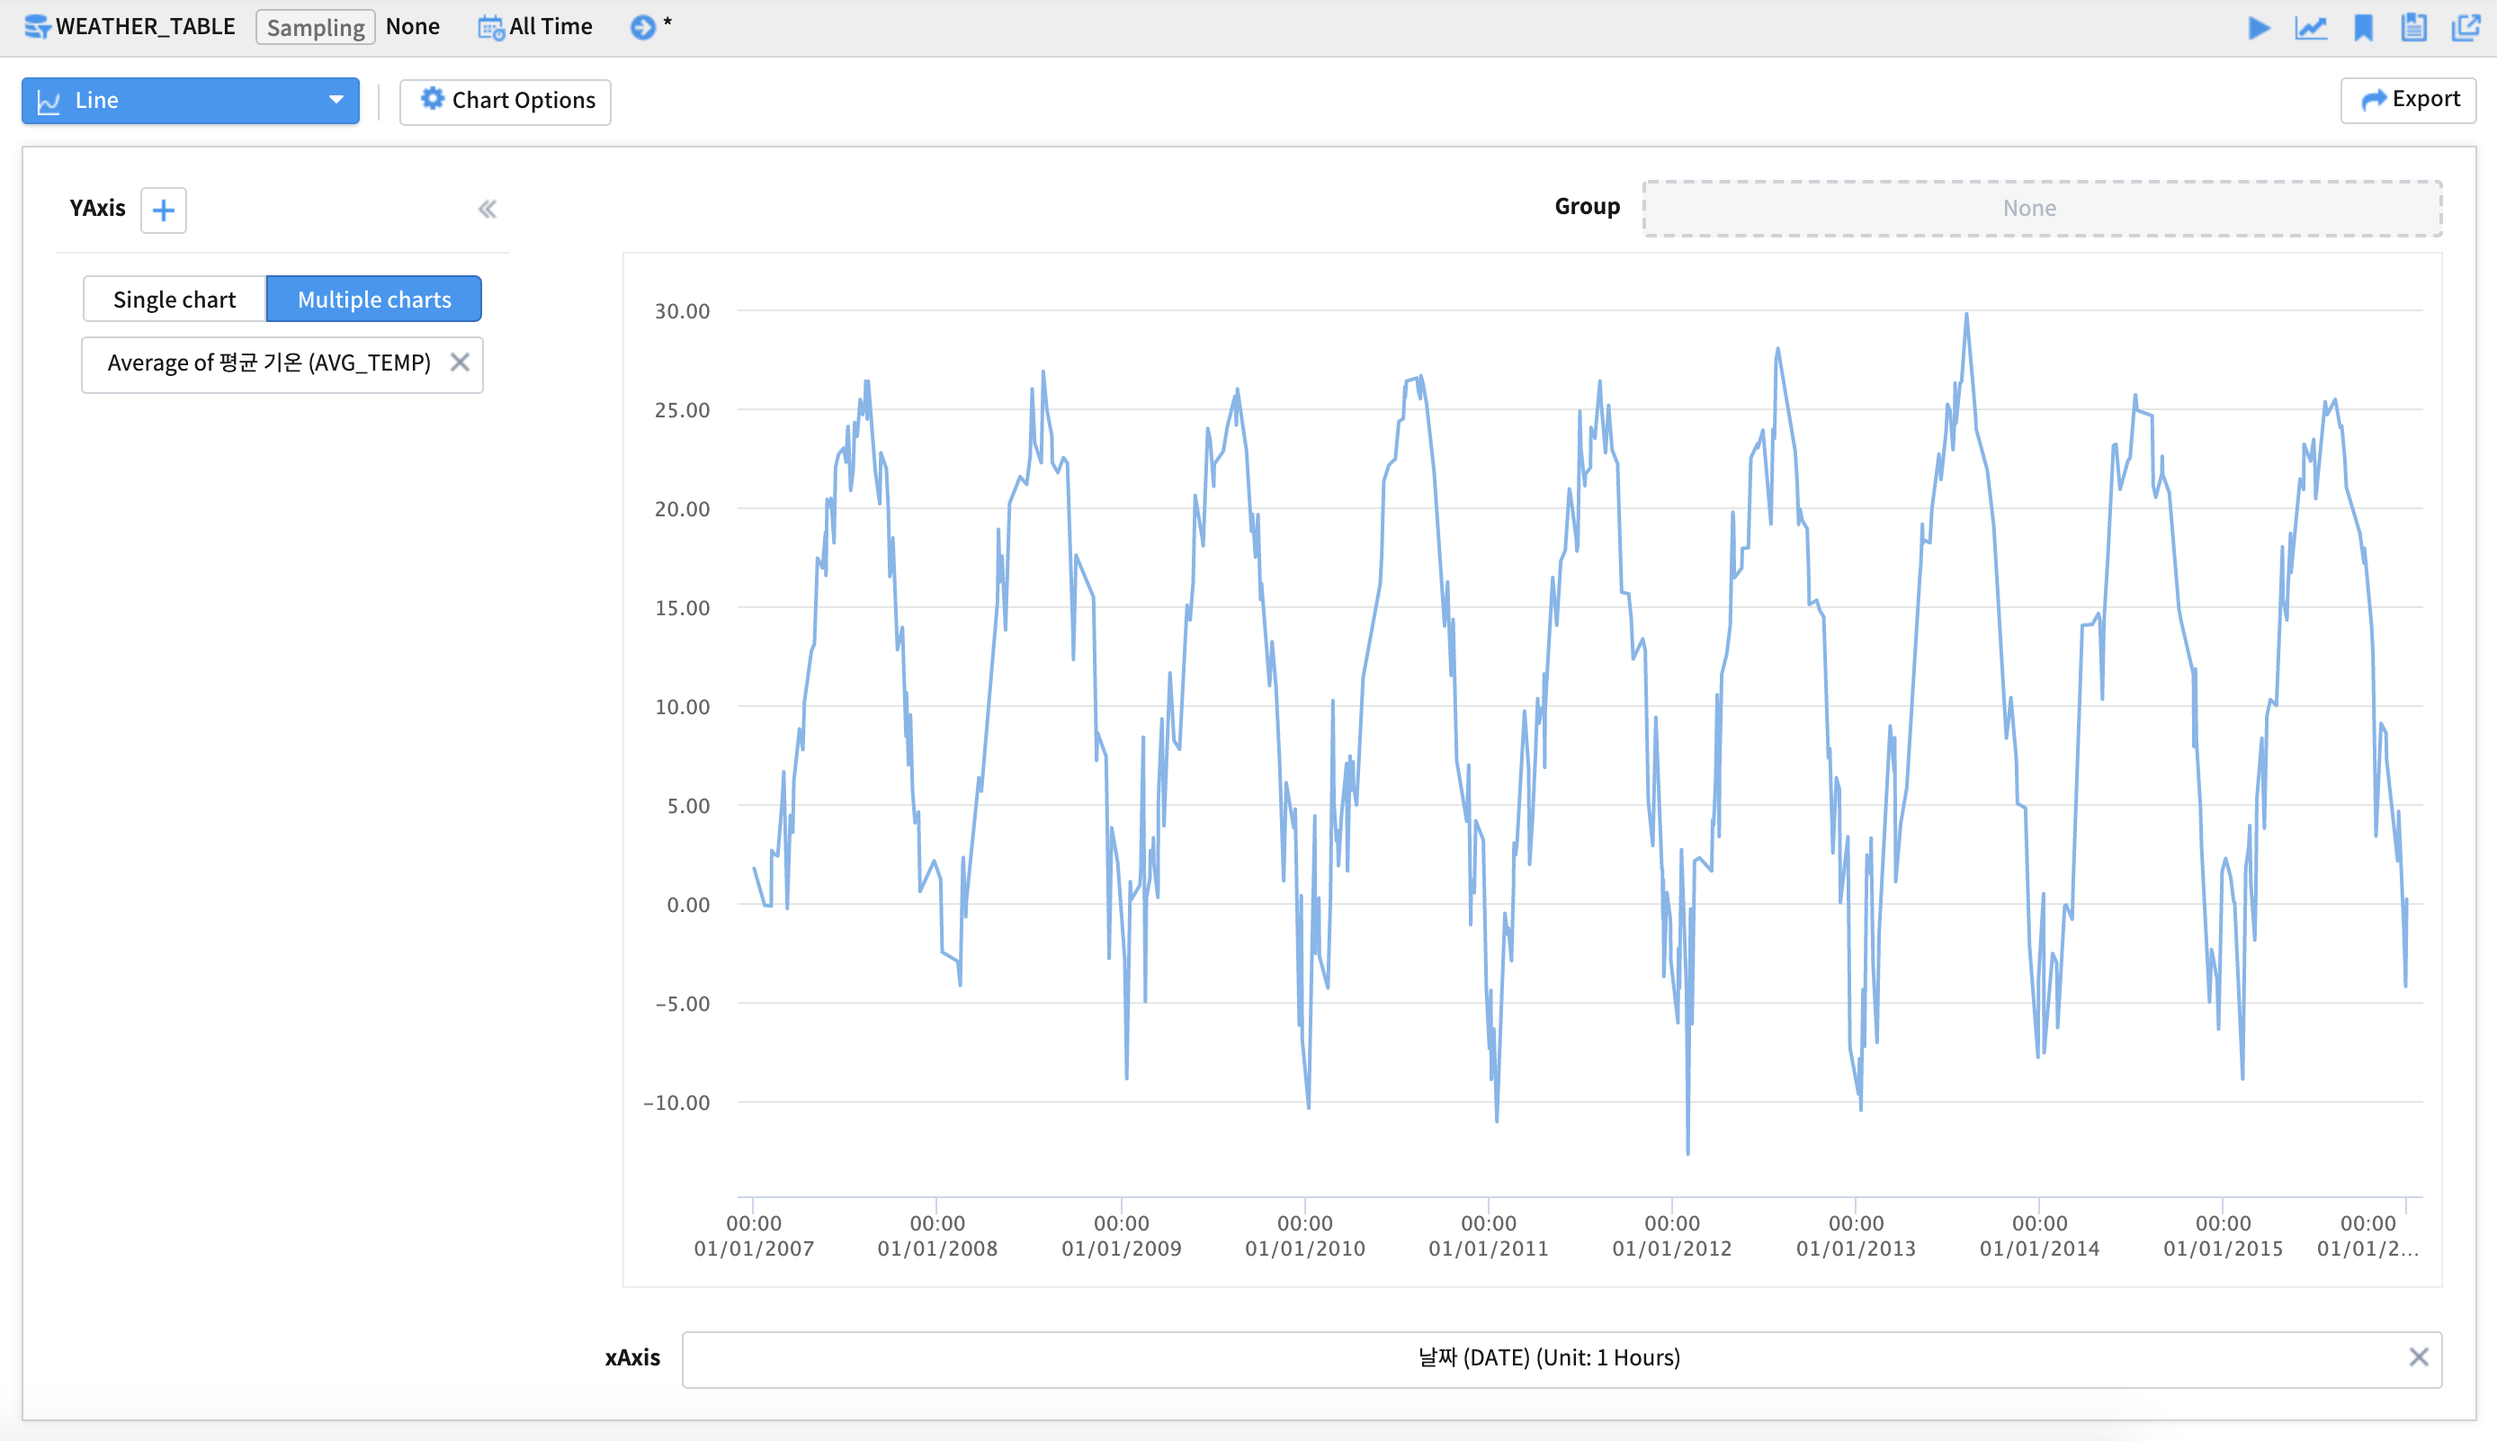
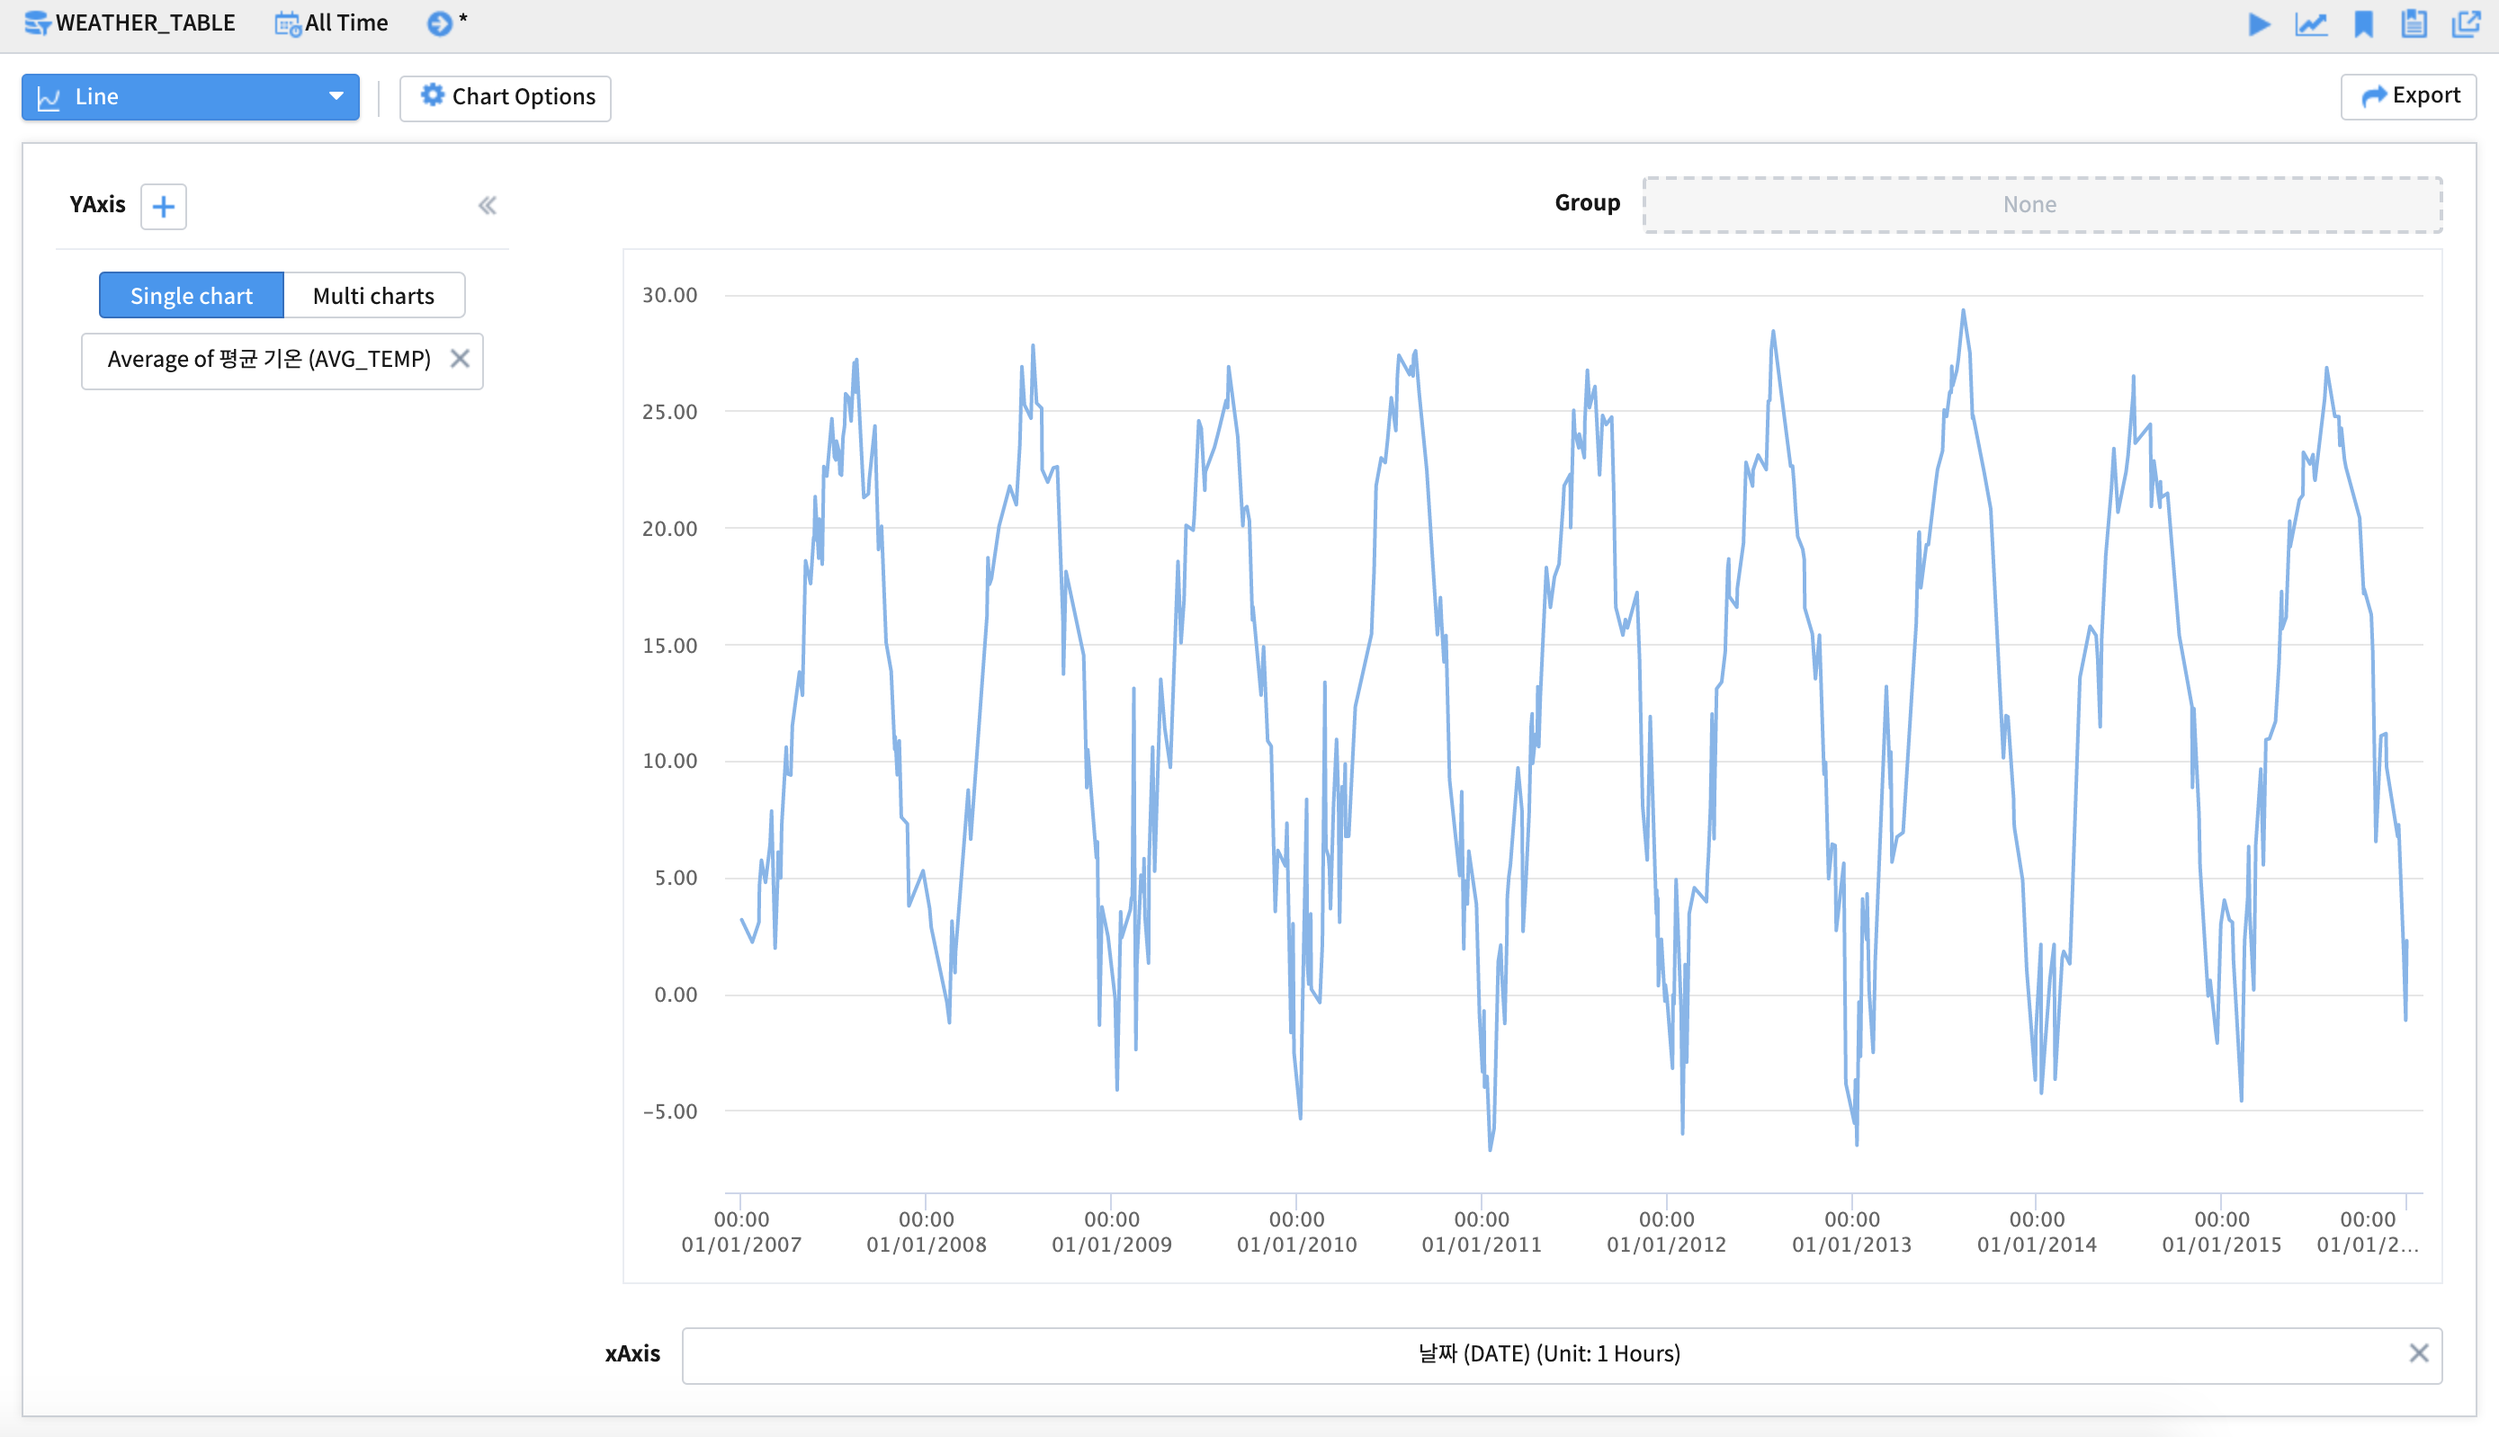
시각화 업데이트

diff --git a/visualization/02_show_charts.rst b/visualization/02_show_charts.rst
@@ -4,28 +4,28 @@
 
 | 시계열, 분포, 관계형, 이상치, 지도형과 같은 시각화 분석 유형을 선택할 수 있습니다. 
 
-.. image:: ./images/kor/02_show_charts/show_charts_00.png
+.. image:: images/kor/02_show_charts/show_charts_00.png
 
 |
 |
 
-단일 차트 - 시계열 그래프
+꺽은선형 - 단일 차트 - 시계열 그래프
 -----------------------------------------------------------------------------------------------------------------------------------
-시간의 흐름(x축)에 따라 y축의 변화를 보고자 할 때 사용합니다. 
+시간의 흐름(x축)에 따라 y축의 시계열 변화를 보고자 할 때 사용합니다. 
 
-.. image:: ./images/kor/02_show_charts/show_charts_01.png
+.. image:: images/kor/02_show_charts/show_charts_01.png
 
 **x축 옵션**
 
-.. image:: ./images/kor/02_show_charts/show_charts_02.png
+.. image:: images/kor/02_show_charts/show_charts_02.png
 
 **y축 옵션**
 
-.. image:: ./images/kor/02_show_charts/show_charts_03.png
+.. image:: images/kor/02_show_charts/show_charts_03.png
 
 **차트 옵션**
 
-.. image:: ./images/kor/02_show_charts/show_charts_04.png
+.. image:: images/kor/02_show_charts/show_charts_04.png
 
 | x축과 y축에 설정한 변수를 각각 클릭하면 축 옵션을 이용가능합니다. 집계 시간단위(1시간, 1일, 1개월, 1년 등)나 집계 방식(합계, 평균, 최대, 최소 등)을 변경할 수 있습니다. 차트 옵션을 이용하면 결측값 표시여부, 축 제목, 범례 위치, 범례 표시 여부 등 다양한 시각화 옵션 조정이 가능합니다. 
 | 축 옵션 및 차트 옵션에 관한 자세한 사항은 매뉴얼을 참조하시기 바랍니다. 
@@ -33,44 +33,44 @@
 |
 |
 
-단일 차트 - 그룹별 시계열 그래프
+꺽은선형 - 단일 차트 - 그룹별 시계열 그래프
 -----------------------------------------------------------------------------------------------------------------------------------
 | 축의 단위가 같은 시계열을 그룹별로 구분하여 그래프를 그릴 수 있습니다. 일부 그룹의 필터링을 하기위해서 차트 왼쪽에 있는 필터를 사용할 수 있습니다. 
 
-.. image:: ./images/kor/02_show_charts/show_charts_05.png
+.. image:: images/kor/02_show_charts/show_charts_05.png
 
 **필터링**
 
-.. image:: ./images/kor/02_show_charts/show_charts_06.png
+.. image:: images/kor/02_show_charts/show_charts_06.png
 
 필터에 관한 자세한 사항은 매뉴얼의 핉터링 부분을 참조하시길 바랍니다. 
 
 |
 |
 
-단일 차트 - 중첩 시계열 그래프(단일 축)
+꺽은선형 - 단일 차트 - 중첩 시계열 그래프
 -----------------------------------------------------------------------------------------------------------------------------------
 
-| 축의 단위(속력, 전력량, 온도 등)가 같은 그래프들을 하나의 축을 기준으로 그릴 수 있습니다. 주로 유사한 단위나 scale이 비슷한의 컬럼을 비교할 때 사용합니다.  
-| 중첩 시계열 그래프를 그리기 위해 y축 컬럼을 추가하고자 할때는 + 버튼을 눌러 컬럼을 추가합니다. 
+| 축의 단위(속력, 전력량, 온도 등)가 같은 그래프들을 하나의 축을 기준으로 그릴 수 있습니다. 주로 유사한 단위나 scale이 비슷한의 변수를 비교할 때 사용합니다.  
+| 중첩 시계열 그래프를 그리기 위해 y축 변수를 추가하고자 할때는 + 버튼을 눌러 변수를 추가합니다. 
 | 이때 차트의 범례 순서는 y축의 순서를 조정하여 변경할 수 있습니다.  
 
-.. image:: ./images/kor/02_show_charts/show_charts_07.png
-.. image:: ./images/kor/02_show_charts/show_charts_08.png
+.. image:: images/kor/02_show_charts/show_charts_07.png
+.. image:: images/kor/02_show_charts/show_charts_08.png
 
-| 주의) 비교하고자 하는 컬럼들의 단위가 다르거나 특정 컬럼의 scale이 매우 큰 경우(예:전력량 0~10000과 온도 -10~30)에는 단일 차트를 시용하기보다는 다중 차트를 이용하는것을 권장합니다. 
+| 주의) 비교하고자 하는 변수들의 단위가 다르거나 특정 변수의 scale이 매우 큰 경우(예:전력량 0~10000과 온도 -10~30)에는 단일 차트를 시용하기보다는 다중 차트를 이용하는것을 권장합니다. 
 
 
 |
 |
 
-다중 차트 - 다중 시계열 그래프(다중 축)
+꺽은선형 - 다중 차트 - 다중 시계열 그래프
 -----------------------------------------------------------------------------------------------------------------------------------
 
 | 축의 단위(속력, 전력량, 온도 등)가 다르거나, 축이 동일해도 scale이 다른 그래프들을 다중 차트로 그릴 수 있습니다.
-| 다중 시계열 그래프를 그리기 위해 y축 컬럼을 추가하고자 할때는 + 버튼을 눌러 컬럼을 추가합니다. 
+| 다중 시계열 그래프를 그리기 위해 y축 변수를 추가하고자 할때는 + 버튼을 눌러 컬럼을 추가합니다. 
 
-.. image:: ./images/kor/02_show_charts/show_charts_09.png
+.. image:: images/kor/02_show_charts/show_charts_09.png
 
 |
 |
@@ -79,7 +79,7 @@
 -----------------------------------------------------------------------------------------------------------------------------------
 | x축, y축으로 이루어진 직교좌표 위에 값을 점으로 나타낸 그래프입니다. 두 개 변수 간의 관계를 나타내는 방법입니다. 두 개 변수 간의 관계를 통해 선형 이나 비선형의 형태와 같은 모델을 확인해봄으로써 그 방향성과 강도를 조사할 수 있습니다.
 
-.. image:: ./images/kor/02_show_charts/show_charts_10.png
+.. image:: images/kor/02_show_charts/show_charts_10.png
 
 |
 |
@@ -89,21 +89,26 @@
 | 시간에 따른 데이터를 x축, y축으로된 2차원 공간에서 버블의 크기와 다양한 색상, 데이터의 변화를 보여주는 차트입니다. 
 | 재생, 일시정지, 다시 재생, 중단의 옵션을 통해 데이터의 움직임을 조정할 수 있습니다. 
 
-.. image:: ./images/kor/02_show_charts/show_charts_11.png
+.. image:: images/kor/02_show_charts/show_charts_11.png
 
 |
 |
 
 히스토그램 - 단일 히스토그램 
 -----------------------------------------------------------------------------------------------------------------------------------
-| 연속형 변수를 일정 구간을 나누어 그 빈도를 그래프로 나타낸 것입니다. 동일한 히스토그램 자료를 x축의 간격(bin size) 조정을 통해 변경 할 수 있습니다. 
+| 연속형 변수를 일정 구간을 나누어 그 빈도를 그래프로 나타낸 것입니다. x축의 구간 간격(bin size) 조정을 통해 집계 빈도를 조정 할 수 있습니다. 
 
-.. image:: ./images/kor/02_show_charts/show_charts_12.png
-.. image:: ./images/kor/02_show_charts/show_charts_13.png
+**기본형**
+
+.. image:: images/kor/02_show_charts/show_charts_12.png
+
+**기본형 - 구간 간격 조정**
+
+.. image:: images/kor/02_show_charts/show_charts_13.png
 
 **x축 옵션**
 
-.. image:: ./images/kor/02_show_charts/show_charts_14.png
+.. image:: images/kor/02_show_charts/show_charts_14.png
 
 | x축에 설정한 변수를 클릭하면 축 옵션을 이용가능합니다. 특히 범위 만들기를 '예'로 변경하여 구간 간격(bin size; range size)를 조정 할 수 있습니다. 축 옵션에 관한 자세한 사항은 매뉴얼을 참조하시기 바랍니다. 
 |
@@ -113,22 +118,53 @@
 -----------------------------------------------------------------------------------------------------------------------------------
 | 연속형 변수를 일정 구간을 나누어 그 빈도를 그래프로 나타낸 것입니다. 그룹에 변수를 매핑하여 그룹간 분포를 비교할 수 있습니다. 
 
-.. image:: ./images/kor/02_show_charts/show_charts_15.png
+.. image:: images/kor/02_show_charts/show_charts_15.png
 
 |
 |
 
-막대형 그래프 (범주형 변수)
+막대형 그래프 - 기본형
 -----------------------------------------------------------------------------------------------------------------------------------
-| 범주형 변수의 빈도를 막대 그래프로 나타낸 것입니다. 그룹에 변수를 매핑하여 그룹간 분포를 비교할 수 있습니다. 
+| 범주형 변수의 빈도를 막대 그래프로 나타낸 것입니다. 히스토그램보다 심화된 작업을 할때 주로 사용합니다. 
 
-.. image:: ./images/kor/02_show_charts/show_charts_16.png
+.. image:: images/kor/02_show_charts/show_charts_16_0.png
 
 |
 |
 
-누적 막대그래프
+막대형 그래프 - 집계형
 -----------------------------------------------------------------------------------------------------------------------------------
+| 범주형 변수의 빈도를 막대 그래프로 나타낸 것입니다. y축(이벤트 개수)에 원하는 변수를 넣어서 집계(합계, 평균 등)된 막대그래프를 표현할 수 있습니다. 
+
+.. image:: images/kor/02_show_charts/show_charts_16_1.png
+
+| x축과 y축에 설정한 변수를 각각 클릭하면 축 옵션을 이용가능합니다. x축의 순서(오름차순/내림차순)나 y축의 집계 방식(합계, 평균, 최대, 최소 등)을 변경할 수 있습니다. 차트 옵션을 이용하면 결측값 표시여부, 축 제목, 범례 위치, 범례 표시 여부 등 다양한 시각화 옵션 조정이 가능합니다. 
+| 축 옵션 및 차트 옵션에 관한 자세한 사항은 매뉴얼을 참조하시기 바랍니다. 
+
+|
+|
+
+누적 막대형 그래프 - 스택형/풀스택형
+-----------------------------------------------------------------------------------------------------------------------------------
+| 범주형 변수의 그룹별 빈도를 막대 그래프로 나타낸 것입니다. 햔재 x축 변수에서 그룹 변수가 차지하고 있는 빈도를 확인 가능합니다. 
+| 스택형은 데이터의 빈도를 그룹별로 누적 빈도를, 풀스택형은 누적 퍼센트를 집계해 줍니다. 
+
+**스택형**
+
+.. image:: images/kor/02_show_charts/show_charts_17.png
+
+
+
+**풀스택형**
+
+.. image:: images/kor/02_show_charts/show_charts_18.png
+
+**차트 옵션**
+
+.. image:: images/kor/02_show_charts/show_charts_19.png
+
+| 차트 상단의 차트 옵션을 이용하면 스택형/풀스택형의 모드 유형, 데이터 값의 표현 여부 등을 조정 할 수 있습니다. 
+| 축 옵션 및 차트 옵션에 관한 자세한 사항은 매뉴얼을 참조하시기 바랍니다. 
 
 |
 |

diff --git a/visualization/03_save_charts.rst b/visualization/03_save_charts.rst
@@ -2,10 +2,10 @@
 ===================================================================================================================================
 
 | 파일 저장 버튼을 누르면 시각화에서 만든 차트가 이미지 파일(png)로 저장됩니다. 
-| 사용자의 다운로드 폴더에 chart.png, chart-01.png, chart-02.png 이름 순으로 저장됩니다. 
+| 저장된 이미지는 사용자의 다운로드 폴더에 chart.png, chart-01.png, chart-02.png 이름 순으로 저장됩니다. 
 
-.. image:: ./images/03_save_charts/save_chart.png
+.. image:: ./images/kor/03_save_charts/save_chart.png
 
 **저장된 차트 이미지 원본**
 
-.. image:: ./images/03_save_charts/save_image.png
+.. image:: ./images/kor/03_save_charts/save_image.png

diff --git a/visualization/01_overview.rst b/visualization/01_overview.rst
@@ -5,7 +5,7 @@
 | 본 문서는 IRIS 메뉴 중, 데이터 브라우저 > 시각화에서 제공되는 각 기능에 대한 사용방법을 기술하고 있습니다. 
 | 시각화 기능은 사용자가 검색 결과의 각 필드, 행, 열 등을 GUI 화면상에서 적절히 조합함으로써 원하는 분석 결과를 쉽고 빠르게 도출하기 위하여 사용되는 강력한 분석 툴입니다. 피벗과는 달리 시각화에 중점을 두어 차트에 최적화된 직관적인 사용자 인터페이스를 제공하며, 다양한 차트 설정 및 시각화 옵션을 제공합니다.
 
-.. image:: ./images/overview/kor/overview.png
+.. image:: ./images/kor/01_overview/overview.png
 
 |
 |
